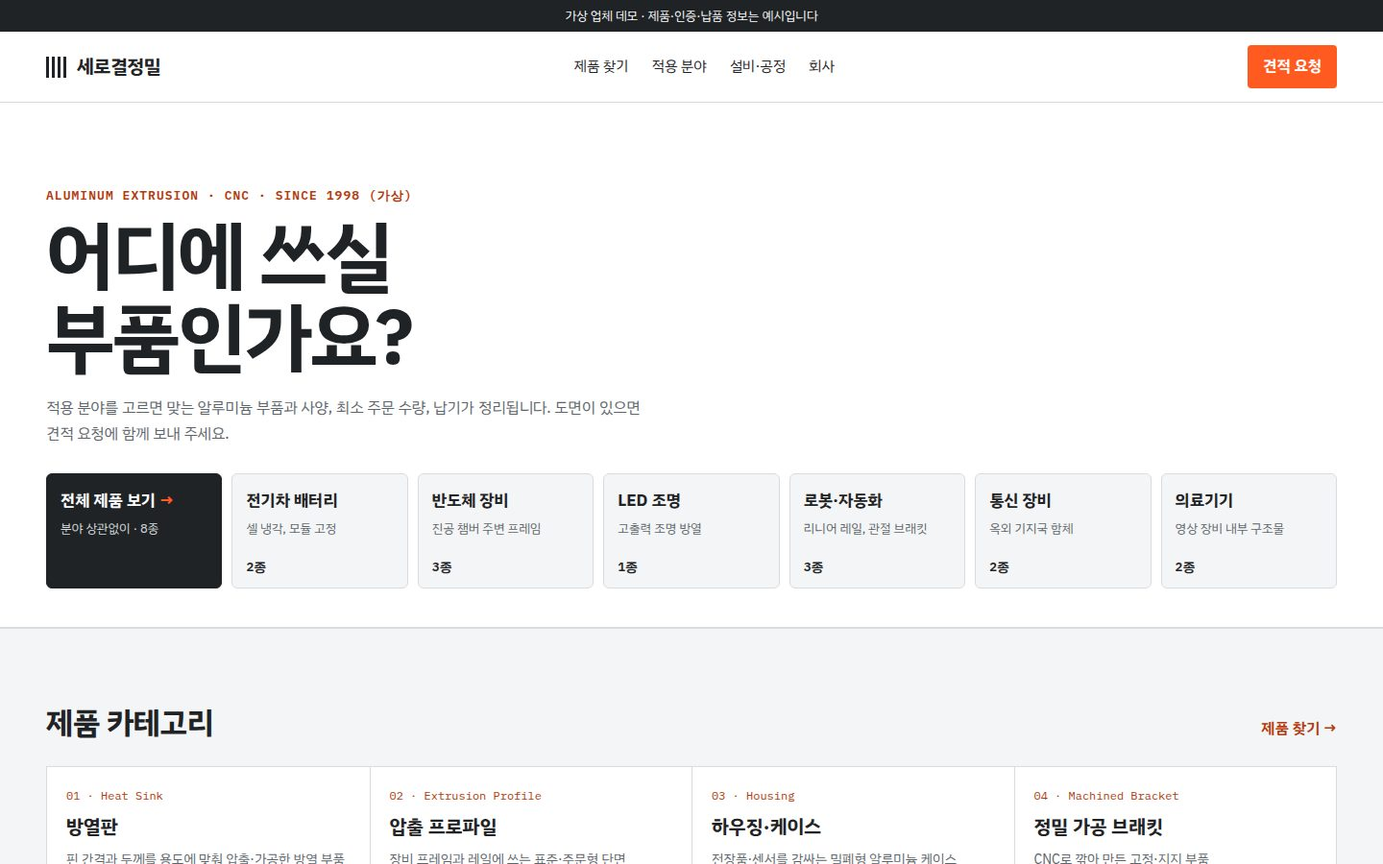
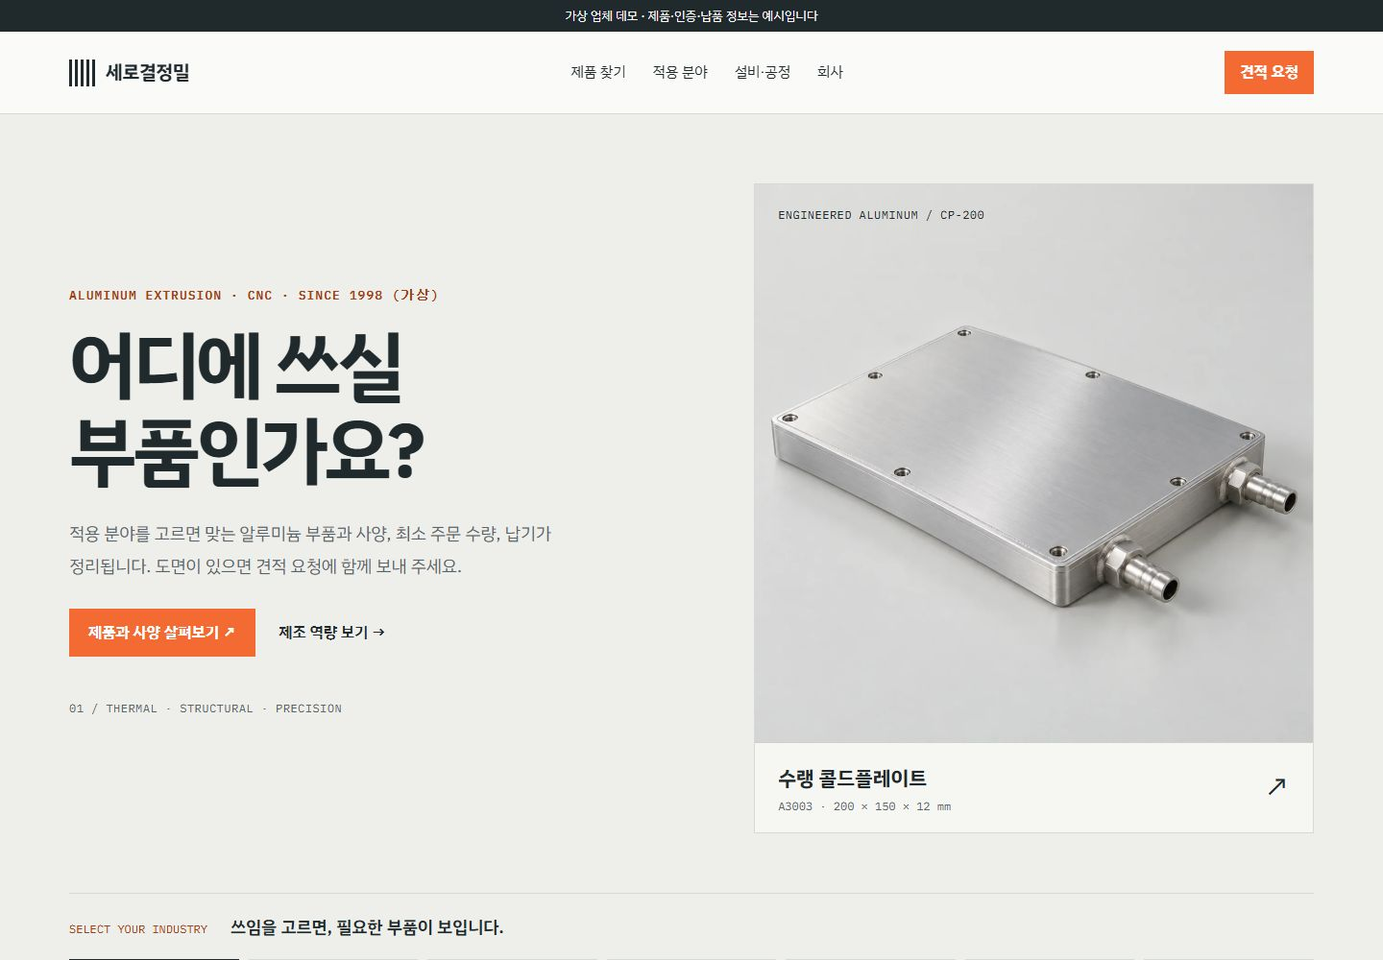
develop fieldmap product studio and manufacturing motion

diff --git a/templates/biz-manufacturing/fieldmap/src/app/globals.css b/templates/biz-manufacturing/fieldmap/src/app/globals.css
@@ -232,3 +232,36 @@ dl.spec dd { margin: 0; font: 13px var(--mono); }
   .history li { grid-template-columns: 64px 1fr; }
 }
 @media (prefers-reduced-motion: reduce) { html { scroll-behavior: auto; } * { transition: none !important; } }
+/* Product studio / 2026 — neutral material studies and engineering orange. */
+:root{--paper:#eeefeb;--white:#fbfcf9;--alu:#d5dad5;--ink:#202a2d;--steel:#586469;--hot:#f36a32;--hot-ink:#a63e14;--pad:clamp(20px,5vw,80px)}
+.top{padding-top:20px;padding-bottom:20px;background:rgba(251,252,249,.96);backdrop-filter:blur(14px)}
+.logo i{height:28px;width:28px}.top nav ul{gap:28px}.quote-btn,.btn{border-radius:0}
+.hero{background:var(--paper);padding-top:clamp(40px,5vw,76px);padding-bottom:46px}
+.hero-intro{display:grid;grid-template-columns:1.1fr 1fr;align-items:center;gap:clamp(30px,5vw,80px);margin-bottom:62px}
+.hero h1{font-size:clamp(42px,5.5vw,82px);max-width:9ch;line-height:1.12;margin:22px 0 24px;letter-spacing:-.055em}
+.hero .lead{font-size:18px;line-height:1.85;max-width:520px}
+.hero-actions{display:flex;flex-wrap:wrap;align-items:center;gap:24px}.hero-secondary{font-weight:600;text-decoration:none}
+.hero-index{font-size:12px;color:var(--steel);margin-top:44px;letter-spacing:.04em}
+.hero-object{position:relative;display:block;text-decoration:none;background:#e8e9e6;overflow:hidden;border:1px solid #d5dad5}
+.hero-object .product-photo{aspect-ratio:1;object-fit:contain;transition:transform .7s}.hero-object:hover .product-photo{transform:scale(1.025)}
+.hero-object-top{position:absolute;top:22px;left:24px;z-index:1;font-size:12px;letter-spacing:.04em}
+.hero-object-bottom{display:flex;align-items:center;justify-content:space-between;gap:20px;padding:20px 24px;border-top:1px solid #ccd3ce;background:#f6f7f3}.hero-object-bottom b{display:block;font-size:21px}.hero-object-bottom span:not(.object-arrow){display:block;font:12px var(--mono);color:var(--steel);margin-top:4px}.object-arrow{font-size:32px}
+.application-label{display:flex;gap:24px;align-items:baseline;border-top:1px solid var(--alu);padding-top:20px;margin-bottom:18px}.application-label .mono{font-size:12px;color:var(--hot-ink)}.application-label p{margin:0;font-size:18px;font-weight:600}
+.app-tile{border-radius:0;min-height:132px;background:transparent;padding:18px 14px}.app-tile:hover{background:#fbfcf9}.app-tile span{font-size:14px}.app-tile em{padding-top:12px}.app-tile.all:hover{background:#354247}
+.band{padding-top:76px;padding-bottom:76px}.band-head{margin-bottom:30px}.band-head h2{font-size:clamp(26px,3vw,38px);letter-spacing:-.045em}
+.cat-row{border:0;background:transparent;gap:12px}.cat-row li{border:1px solid var(--alu)}.cat-row li+li{border-left:1px solid var(--alu)}.cat-row a{padding:26px 22px;gap:12px;background:var(--white)}.cat-row .mono{font-size:13px}.cat-row b{font-size:24px}.cat-row span:last-child{font-size:15px;line-height:1.75}
+.results{gap:24px}.prod{border-radius:0;border:1px solid #d5dad5;transition:box-shadow .3s,transform .3s}.prod:hover{transform:translateY(-4px);box-shadow:0 16px 30px #172b3310}
+.prod figure{background:#e8e9e6}.product-photo{display:block;width:100%;height:auto;aspect-ratio:1;object-fit:contain;background:#e8e9e6}.prod .product-photo{transition:transform .6s}.prod figure a{display:block;overflow:hidden}.prod figure a:hover .product-photo{transform:scale(1.04)}
+.code{top:16px;left:16px;border-radius:0;background:#fbfcf9d9;padding:5px 9px;font-size:13px;z-index:1}.prod-body{padding:24px;gap:14px}.prod h3{font-size:20px;line-height:1.5}.product-summary{font-size:15px;color:var(--steel);line-height:1.8;margin:0}.tags{font-size:13px}.spec dd{font-size:14px!important}.add{border-radius:0;padding:12px}.detail-fig{border-radius:0;background:#e8e9e6}.detail-fig figcaption{font-size:14px;line-height:1.8;padding:18px 22px;border-top:1px solid var(--alu)}
+.page-head{padding-top:60px;padding-bottom:40px}.page-head h1{letter-spacing:-.05em}.spec-table th,.spec-table td{padding:14px 12px}.nums{border:0}.nums div{padding:32px}.nums span{display:block;margin-top:14px;font-size:15px}
+.foot{background:#202a2d;color:#bfcac9;padding-top:60px;padding-bottom:40px}.foot .logo,.foot .foot-h{color:#f3f5f0}.foot .logo i{background:repeating-linear-gradient(90deg,#f3f5f0 0 3px,transparent 3px 6px)}.foot-demo{border-color:#465254}.foot a:hover{color:#fff}
+.manufacturing{padding:64px var(--pad);background:#202a2d;color:#f0f4ee;overflow:hidden}.motion-head{display:flex;align-items:center;justify-content:space-between;gap:24px;margin-bottom:34px}.motion-head .eyebrow{color:#ffa47a}.motion-head h2{font-size:clamp(28px,3vw,42px);line-height:1.3;letter-spacing:-.04em;margin:12px 0 0}.motion-play{background:transparent;color:#e5ede8;border:1px solid #657473;font:inherit;font-size:14px;padding:10px 18px;white-space:nowrap;cursor:pointer}
+.motion-layout{display:grid;grid-template-columns:2fr 1fr;gap:50px;align-items:center}.motion-screen{background:#263135;border:1px solid #49575a;min-width:0}.motion-screen svg{display:block;width:100%;height:auto}.motion-status{display:flex;align-items:center;gap:10px;justify-content:flex-start;padding:18px 20px;font:12px var(--mono);border-bottom:1px solid #49575a}.motion-status>span:last-child{margin-left:auto;color:#aebbb8}.signal{width:6px;height:6px;background:#f36a32;border-radius:50%}.motion-disclaimer{margin:0;padding:14px 20px;border-top:1px solid #49575a;color:#aebbb8;font-size:13px;line-height:1.8}.motion-number{display:block;font:600 76px/1 var(--mono);color:#ff925e}.motion-number small{font-size:16px;color:#9cada9;margin-left:14px}.motion-copy h3{font-size:30px;margin:24px 0 16px}.motion-copy p{font-size:17px;line-height:1.85;color:#bfcac9}.motion-copy .mono{font-size:12px;margin-top:24px;letter-spacing:.05em}.motion-progress{height:2px;background:#50605f;margin-top:24px;overflow:hidden}.motion-progress span{display:block;background:#ff925e;width:100%;height:100%}
+.motion-stages{display:grid;grid-template-columns:repeat(6,1fr);gap:1px;background:#56635f;border:1px solid #56635f;margin-top:30px}.motion-stages button{background:#263135;color:#bfcac9;padding:18px 12px;border:0;font:600 15px var(--sans);cursor:pointer;text-align:left}.motion-stages button span{display:block;font:12px var(--mono);margin-bottom:8px;color:#9cada9}.motion-stages button[aria-pressed=true]{background:#f36a32;color:#18272c}.motion-stages button[aria-pressed=true] span{color:#18272c}.motion-stages button:hover{background:#435252}.motion-stages button[aria-pressed=true]:hover{background:#ff8650}
+.is-playing .motion-part{animation:fm-build 3.6s ease both;transform-box:fill-box;transform-origin:left center}.is-playing .motion-feed{animation:fm-feed 1.8s ease-in-out infinite}.is-playing .motion-saw{animation:fm-tool 1.8s ease-in-out infinite}.is-playing .motion-cutter{animation:fm-mill 2.4s ease-in-out infinite}.is-playing .motion-chips{animation:fm-chips .7s ease-out infinite}.is-playing .motion-finish{animation:fm-finish 3.6s ease both}.is-playing .motion-scan{animation:fm-scan 3.6s linear infinite}.is-playing .motion-blueprint{animation:fm-line 3.6s ease both}.is-playing .motion-progress span{animation:fm-progress 3.6s linear both}
+.motion-screen:not([data-stage="1"]) .motion-part{animation:none}
+@keyframes fm-build{from{transform:scaleX(.12)}to{transform:scaleX(1)}}@keyframes fm-feed{0%,100%{transform:translateX(-25px)}50%{transform:translateX(15px)}}@keyframes fm-tool{0%,100%{transform:translateY(-30px)}50%{transform:translateY(90px)}}@keyframes fm-mill{0%,100%{transform:translateX(-60px)}50%{transform:translateX(140px)}}@keyframes fm-chips{from{opacity:1;transform:translate(0,0)}to{opacity:0;transform:translate(40px,30px)}}@keyframes fm-finish{from{opacity:0}to{opacity:1}}@keyframes fm-scan{from{transform:translateX(0)}to{transform:translateX(490px)}}@keyframes fm-line{from{stroke-dasharray:700;stroke-dashoffset:700}to{stroke-dasharray:700;stroke-dashoffset:0}}@keyframes fm-progress{from{width:0}to{width:100%}}
+@media(max-width:1100px){.hero-intro{gap:30px}.apps{grid-template-columns:repeat(4,1fr)}.motion-layout{gap:30px}.prod-body{padding:20px}}
+@media(max-width:900px){.hero-intro{grid-template-columns:1fr 1fr}.hero h1{font-size:48px}.hero .lead{font-size:16px}.hero-actions{gap:16px}.hero-index{margin-top:24px}.motion-layout{grid-template-columns:1fr}.motion-copy{display:grid;grid-template-columns:100px 1fr;column-gap:24px}.motion-copy h3{margin:0}.motion-copy p{grid-column:2}.motion-copy .motion-progress{grid-column:1/-1}.motion-copy .mono{grid-column:1/-1;margin:14px 0 0}.motion-number{font-size:56px}.motion-number small{display:block;margin:12px 0 0}.cat-row li:nth-child(3){border-left:1px solid var(--alu)}}
+@media(max-width:640px){.top{padding-top:12px;padding-bottom:12px}.hero-intro{grid-template-columns:1fr;margin-bottom:34px}.hero h1{font-size:50px;max-width:10ch}.hero-object{max-width:100%;width:100%}.hero-object-top{font-size:11px;top:16px;left:16px}.hero-object-bottom{padding:16px}.hero-object-bottom b{font-size:19px}.application-label{display:block}.application-label p{font-size:16px;margin-top:8px}.apps{grid-template-columns:repeat(2,1fr)}.band{padding-top:48px;padding-bottom:48px}.cat-row a{padding:18px}.cat-row b{font-size:21px}.cat-row .mono{font-size:11px}.manufacturing{padding-top:42px;padding-bottom:42px}.motion-head{align-items:flex-start;flex-direction:column;gap:18px}.motion-layout{gap:24px}.motion-status{font-size:10px;padding:12px;gap:6px}.motion-status>span:last-child{font-size:10px}.motion-copy p{font-size:15px;margin:8px 0}.motion-copy h3{font-size:25px}.motion-stages{grid-template-columns:repeat(3,1fr)}.motion-stages button{padding:14px 12px;font-size:14px}.motion-disclaimer{font-size:12px;padding:12px}.nums div{padding:22px}.prod-body{padding:22px}}
+@media(prefers-reduced-motion:reduce){.manufacturing *{animation:none!important}.product-photo,.prod{transition:none!important}.prod:hover,.hero-object:hover .product-photo,.prod figure a:hover .product-photo{transform:none}}

diff --git a/templates/biz-manufacturing/fieldmap/src/components/ManufacturingMotion.tsx b/templates/biz-manufacturing/fieldmap/src/components/ManufacturingMotion.tsx
@@ -1,0 +1,55 @@
+"use client";
+import { useEffect, useRef, useState } from "react";
+import { capability } from "@/data/content";
+
+export default function ManufacturingMotion() {
+  const [step, setStep] = useState(0);
+  const [playing, setPlaying] = useState(false);
+  const [visible, setVisible] = useState(false);
+  const root = useRef<HTMLElement>(null);
+  useEffect(() => {
+    const media = matchMedia("(prefers-reduced-motion: reduce)");
+    const preference = () => setPlaying(!media.matches);
+    preference(); media.addEventListener("change", preference);
+    const observer = new IntersectionObserver(([entry]) => setVisible(entry.isIntersecting), { threshold: 0.15 });
+    if (root.current) observer.observe(root.current);
+    return () => { observer.disconnect(); media.removeEventListener("change", preference); };
+  }, []);
+  useEffect(() => {
+    if (!playing || !visible) return;
+    const timer = setInterval(() => { if (!document.hidden) setStep(s => (s + 1) % 6); }, 3600);
+    return () => clearInterval(timer);
+  }, [playing, visible]);
+  const current = capability.steps[step];
+  return <section ref={root} className={`manufacturing ${playing && visible ? "is-playing" : ""}`} aria-label="알루미늄 제조 과정 모션그래픽">
+    <div className="motion-head"><div><p className="eyebrow">FROM MATERIAL TO PRECISION</p><h2>소재가 부품이 되는 순간.</h2></div><button className="motion-play" type="button" aria-pressed={playing} onClick={() => setPlaying(p => !p)}>{playing ? "모션 일시정지" : "모션 재생"}</button></div>
+    <div className="motion-layout">
+      <div className="motion-screen" data-stage={step}>
+        <div className="motion-status"><span className="signal" />PROCESS / 0{step + 1}<span>RX-4040 · 공정 개념도</span></div>
+        <svg viewBox="0 0 780 380" role="img" aria-label={`${current.title} 공정 개념 애니메이션`}>
+          <defs><pattern id="fm-grid" width="40" height="40" patternUnits="userSpaceOnUse"><path d="M40 0H0V40" fill="none" stroke="#364043" strokeWidth=".6" /></pattern><linearGradient id="fm-metal"><stop stopColor="#f0f3f1"/><stop offset=".5" stopColor="#a7b4b6"/><stop offset="1" stopColor="#617175"/></linearGradient></defs>
+          <rect width="780" height="380" fill="url(#fm-grid)" />
+          <ellipse cx="426" cy="305" rx="245" ry="24" fill="#000" opacity=".25" />
+          {step === 0 && <g className="motion-blueprint" fill="none" stroke="#ff7a45" strokeWidth="2"><path d="M180 260V105H330V260ZM210 135H300V230H210ZM165 85H345M150 100V265M180 285H650"/><circle cx="255" cy="182" r="20"/><path strokeDasharray="5 8" d="M255 60V300M120 182H380M330 105L610 170V285L330 260M330 105L650 85V240L330 260"/></g>}
+          {step !== 0 && <g className="motion-part" key={step}>
+            <polygon points="230,145 585,95 655,150 300,200" fill="url(#fm-metal)"/>
+            <polygon points="300,200 655,150 655,255 300,305" fill="#7a8c90"/>
+            <path d="M315 216L638 171M315 281L638 236M325 249L628 207" stroke="#26363b" strokeWidth="11"/>
+            <path d="M230 145H300V305H230Z" fill="#dce4e3"/>
+            <path d="M240 158H288V291H240Z" fill="#445b63"/>
+            <path d="M247 175H282M247 274H282M259 162V185M259 263V287" stroke="#dce4e3" strokeWidth="8"/>
+            <circle cx="264" cy="230" r="17" fill="#18282e"/>
+          </g>}
+          {step === 1 && <><g className="motion-feed"><rect x="65" y="173" width="100" height="85" rx="35" fill="#ff7439"/><ellipse cx="165" cy="215" rx="20" ry="42" fill="#ffb081"/><path d="M50 215H90" stroke="#ffb081" strokeWidth="4"/></g><rect x="194" y="105" width="35" height="205" rx="8" fill="#465559"/><path d="M185 95V320" stroke="#ff7439" strokeWidth="2"/></>}
+          {step === 2 && <g className="motion-saw"><rect x="420" y="35" width="24" height="80" fill="#9caeaf"/><circle cx="432" cy="133" r="41" fill="#ced8d5" stroke="#ff7439" strokeWidth="5" strokeDasharray="4 6"/><path d="M432 92V174M391 133H473" stroke="#607175" strokeWidth="3"/></g>}
+          {step === 3 && <><g className="motion-cutter"><rect x="390" y="20" width="58" height="55" rx="4" fill="#53676d"/><path d="M410 75H429V148H410Z" fill="#d3dedb"/><path d="M410 103L429 111M410 118L429 126M410 133L429 141" stroke="#ff7439" strokeWidth="4"/></g><g className="motion-chips" fill="#ff925e"><rect x="385" y="165" width="6" height="10" transform="rotate(20 385 165)"/><rect x="450" y="165" width="8" height="5"/><rect x="473" y="188" width="7" height="7"/></g></>}
+          {step === 4 && <g className="motion-finish"><path d="M218 139L587 84L668 146V262L302 317L219 302Z" fill="#18282e" opacity=".55" stroke="#ff7439" strokeWidth="2"/><path d="M205 130L675 60M205 166L675 96" stroke="#ff9d71" opacity=".6" strokeWidth="2"/></g>}
+          {step === 5 && <><g className="motion-scan"><path d="M195 60V335" stroke="#77e4be" strokeWidth="3"/><path d="M195 60H230V335H195Z" fill="#77e4be" opacity=".1"/></g><g fill="none" stroke="#77e4be" strokeWidth="2"><path d="M200 325H670M200 316V334M670 316V334M680 145V265M672 145H688M672 265H688"/><path d="M95 175L113 193L145 150" strokeWidth="5"/></g></>}
+        </svg>
+        <p className="motion-disclaimer">표준 압출 프로파일의 제조 흐름을 단순화한 그래픽입니다. 제품별 공정은 상세 사양에서 확인하세요.</p>
+      </div>
+      <div className="motion-copy"><span className="motion-number">0{step + 1}<small>/ 06</small></span><h3>{current.title}</h3><p>{current.body}</p><div className="motion-progress"><span key={step} /></div><p className="mono">DESIGN → FORM → FINISH</p></div>
+    </div>
+    <div className="motion-stages" aria-label="제조 공정 선택">{capability.steps.map((s,i) => <button key={s.no} type="button" aria-pressed={step === i} onClick={() => {setStep(i);setPlaying(false);}}><span>{s.no}</span>{s.title}</button>)}</div>
+  </section>;
+}

diff --git a/templates/biz-manufacturing/fieldmap/src/app/page.tsx b/templates/biz-manufacturing/fieldmap/src/app/page.tsx
@@ -1,3 +1,5 @@
+import ManufacturingMotion from "@/components/ManufacturingMotion";
+import ProductImage from "@/components/ProductImage";
 import Link from "next/link";
 import ProductCard from "@/components/ProductCard";
 import { applications, categories, products } from "@/data/catalog";
@@ -14,9 +16,9 @@ export default function Home() {
   return (
     <>
       <section className="hero">
-        <p className="eyebrow">{c.eyebrow}</p>
+        <div className="hero-intro"><div className="hero-copy"><p className="eyebrow">{c.eyebrow}</p>
         <h1>{c.title}</h1>
-        <p className="lead">{c.lead}</p>
+        <p className="lead">{c.lead}</p><div className="hero-actions"><Link className="btn" href="/products/">제품과 사양 살펴보기 ↗</Link><Link className="hero-secondary" href="/capability/">제조 역량 보기 →</Link></div><p className="hero-index mono">01 / THERMAL · STRUCTURAL · PRECISION</p></div><Link className="hero-object" href="/products/CP-200/"><span className="hero-object-top mono">ENGINEERED ALUMINUM / CP-200</span><ProductImage p={products[1]} priority /><div className="hero-object-bottom"><div><b>수랭 콜드플레이트</b><span>A3003 · 200 × 150 × 12 mm</span></div><span className="object-arrow">↗</span></div></Link></div><div className="application-label"><span className="mono">SELECT YOUR INDUSTRY</span><p>쓰임을 고르면, 필요한 부품이 보입니다.</p></div>
         <div className="apps" role="list">
           <Link role="listitem" className="app-tile all" href="/products/"><b>{c.allLabel}</b><span>{c.allNote} · {products.length}종</span></Link>
           {applications.map((a) => (
@@ -47,6 +49,7 @@ export default function Home() {
         <div className="results">{featured.map((id) => products.find((p) => p.id === id)!).map((p) => <ProductCard key={p.id} p={p} />)}</div>
       </section>
 
+      <ManufacturingMotion />
       <section className="band">
         <div className="band-head"><h2>설비와 공정</h2><Link href="/capability/">설비·공정 자세히 →</Link></div>
         <div className="nums">{capability.numbers.map((n) => (<div key={n.label}><b>{n.value}</b><span>{n.unit} {n.label}</span></div>))}</div>

diff --git a/templates/biz-manufacturing/fieldmap/src/app/products/[id]/page.tsx b/templates/biz-manufacturing/fieldmap/src/app/products/[id]/page.tsx
@@ -1,6 +1,6 @@
 import Link from "next/link";
 import { notFound } from "next/navigation";
-import Drawing from "@/components/Drawing";
+import ProductImage from "@/components/ProductImage";
 import JsonLd from "@/components/JsonLd";
 import PageHead from "@/components/PageHead";
 import ProductCard from "@/components/ProductCard";
@@ -29,8 +29,8 @@ export default async function ProductPage({ params }: PageProps<"/products/[id]"
       <PageHead eyebrow={`${p.id} · ${cat.en}`} title={p.name} lead={p.summary} crumbs={[{ href: "/products/", label: "제품 찾기" }, { href: `/products/${p.id}/`, label: p.id }]} />
       <section className="detail">
         <figure className="detail-fig">
-          <Drawing category={p.category} />
-          <figcaption><b>이미지 설명</b> {p.image}</figcaption>
+          <ProductImage p={p} priority />
+          <figcaption>AI 제작 제품 이미지 · 형상 참고용. 실제 제작 치수는 승인 도면을 기준으로 합니다.</figcaption>
         </figure>
         <div className="detail-body">
           <h2>사양</h2>

diff --git a/templates/biz-manufacturing/fieldmap/src/components/ProductCard.tsx b/templates/biz-manufacturing/fieldmap/src/components/ProductCard.tsx
@@ -1,5 +1,5 @@
 import Link from "next/link";
-import Drawing from "./Drawing";
+import ProductImage from "./ProductImage";
 import QuoteToggle from "./QuoteToggle";
 import { applicationOf, categoryOf, type Product } from "@/data/catalog";
 
@@ -8,11 +8,11 @@ export default function ProductCard({ p }: { p: Product }) {
     <article className="prod">
       <figure>
         <span className="code">{p.id}</span>
-        <Drawing category={p.category} />
-        <figcaption><b>이미지 설명</b> {p.image}</figcaption>
+        <Link href={`/products/${p.id}/`} aria-label={`${p.name} 상세 보기`}><ProductImage p={p} /></Link>
       </figure>
       <div className="prod-body">
         <h3><Link href={`/products/${p.id}/`}>{p.name}</Link></h3>
+        <p className="product-summary">{p.summary}</p>
         <div className="tags">
           <span>{categoryOf(p.category).name}</span>
           {p.apps.map((a) => <span key={a}>{applicationOf(a).name}</span>)}

diff --git a/templates/biz-manufacturing/fieldmap/src/app/capability/page.tsx b/templates/biz-manufacturing/fieldmap/src/app/capability/page.tsx
@@ -1,3 +1,4 @@
+import ManufacturingMotion from "@/components/ManufacturingMotion";
 import PageHead from "@/components/PageHead";
 import JsonLd from "@/components/JsonLd";
 import { categories } from "@/data/catalog";
@@ -15,6 +16,7 @@ export default function CapabilityPage() {
   return (
     <>
       <PageHead eyebrow="CAPABILITY" title="설비·공정" lead="도면 한 장에서 출하 검사까지 한 공장 안에서 진행합니다. 아래 설비와 수치는 데모용 가상 정보입니다." crumbs={[{ href: "/capability/", label: "설비·공정" }]} />
+      <ManufacturingMotion />
       <section className="band">
         <div className="nums">{capability.numbers.map((n) => (<div key={n.label}><b>{n.value}</b><span>{n.unit} {n.label}</span></div>))}</div>
       </section>

diff --git a/templates/biz-manufacturing/fieldmap/src/components/Footer.tsx b/templates/biz-manufacturing/fieldmap/src/components/Footer.tsx
@@ -17,7 +17,7 @@ export default function Footer() {
         <p className="foot-h">바로가기</p>
         <ul>{site.nav.map((n) => (<li key={n.href}><Link href={`${n.href}/`}>{n.label}</Link></li>))}<li><Link href="/quote/">견적 요청</Link></li></ul>
       </div>
-      <p className="foot-demo">가상 업체 데모입니다. 제품·인증·납품·설비 정보는 예시이며 실제 업체와 관계없습니다.</p>
+      <p className="foot-demo">가상 업체 데모입니다. 제품 사진은 AI 제작 시각화이며 제품·인증·납품·설비 정보는 예시입니다. 실제 제작은 승인 도면 기준이며 실제 업체와 관계없습니다.</p>
     </footer>
   );
 }

diff --git a/templates/biz-manufacturing/fieldmap/src/components/ProductImage.tsx b/templates/biz-manufacturing/fieldmap/src/components/ProductImage.tsx
@@ -1,0 +1,6 @@
+import Image from "next/image";
+import { BASE_PATH } from "@/lib/config";
+import { type Product } from "@/data/catalog";
+export default function ProductImage({ p, priority = false }: {p: Product; priority?: boolean}) {
+  return <Image unoptimized className="product-photo" src={`${BASE_PATH}/images/products/${p.id.toLowerCase()}.webp`} alt={`${p.name} — ${p.spec.표면 || p.spec.재질}, AI 제작 제품 예시`} width="1200" height="1200" loading={priority ? "eager" : "lazy"} fetchPriority={priority ? "high" : "auto"} decoding="async" />;
+}

diff --git a/templates/biz-manufacturing/fieldmap/README.md b/templates/biz-manufacturing/fieldmap/README.md
@@ -24,3 +24,10 @@ npm run build      # out/ 정적 HTML
 - `src/components` 화면 (Finder, ProductCard, QuoteForm, quote-store …)
 - `src/lib` 주소·SEO·구조화 데이터
 - `docs/site-spec.md` 기준 문서, `docs/CHANGELOG.md`
+
+### 제품 이미지와 제조 모션 (2026-10-09)
+`public/images/products/`의 WebP 8종은 built-in image_gen으로 제작한 가상 제품 시각화입니다. `manifest.json`에 제품별 전체 프롬프트·실제 치수·파일 크기·해시가 있습니다. 공통 밝은 회색 스튜디오 배경, 최대 1200px, WebP quality 85이며 확대 보간하지 않았습니다. 실제 제작은 승인 도면을 기준으로 합니다.
+
+`ManufacturingMotion`은 표준 압출 프로파일의 6단계를 단순화한 SVG/CSS 모션입니다. 홈과 설비·공정 페이지에 표시하며 단계별 선택, 자동 재생, 일시정지 및 reduced-motion을 지원합니다. 원본 설계 도면이나 특정 설비의 실제 영상이 아닙니다. 참고: [Hydro 압출 소개](https://www.hydro.com/en/global/about-hydro/management-and-organization/organization-overview/hydro-extrusions/), [Haas 5축 가공](https://www.haascnc.com/machines/multi-axis/5-axis-mills/5-Axis_Machines.html).
+
+검증: `node tests/fieldmap-browser.mjs`. 환경변수 `FIELDMAP_ORIGIN`으로 공개 서버 검증도 가능합니다. 제품 8종과 상세 경로, 필터·견적 저장, 360/768/1440 가로 넘침, 제조 모션 6단계·재생·일시정지·동작 줄이기, 에디터를 검사합니다.

diff --git a/templates/biz-manufacturing/fieldmap/docs/CHANGELOG.md b/templates/biz-manufacturing/fieldmap/docs/CHANGELOG.md
@@ -5,3 +5,6 @@
 - 제품 데이터 `src/data/catalog.ts` (카테고리 4, 적용 분야 6, 모델 8, 모델별 가상 이미지 설명)
 - 견적 담기(localStorage)와 헤더 배지, 견적 요청 체크리스트
 - SEO: 페이지별 title·description·canonical·OG, sitemap, robots, manifest, og.png, Organization·Product·FAQPage·BreadcrumbList
+
+## 2026-10-09 — 제품 스튜디오와 제조 모션
+밝은 회색 배경의 제품 사진 8종을 생성해 제품 목록·상세·적용 분야에 연결했습니다. 홈을 제품 중심의 분할 히어로, 편집형 제품 카드와 어두운 제조 공정 섹션으로 개선했습니다. 압출 프로파일 기준 6단계 SVG/CSS 모션그래픽은 자동 재생·단계 선택·일시정지를 지원하며, 화면 밖/비활성 탭에서는 진행을 멈추고 동작 줄이기 설정을 따릅니다. 기존 제품 필터·견적 담기·에디터를 유지했습니다.
